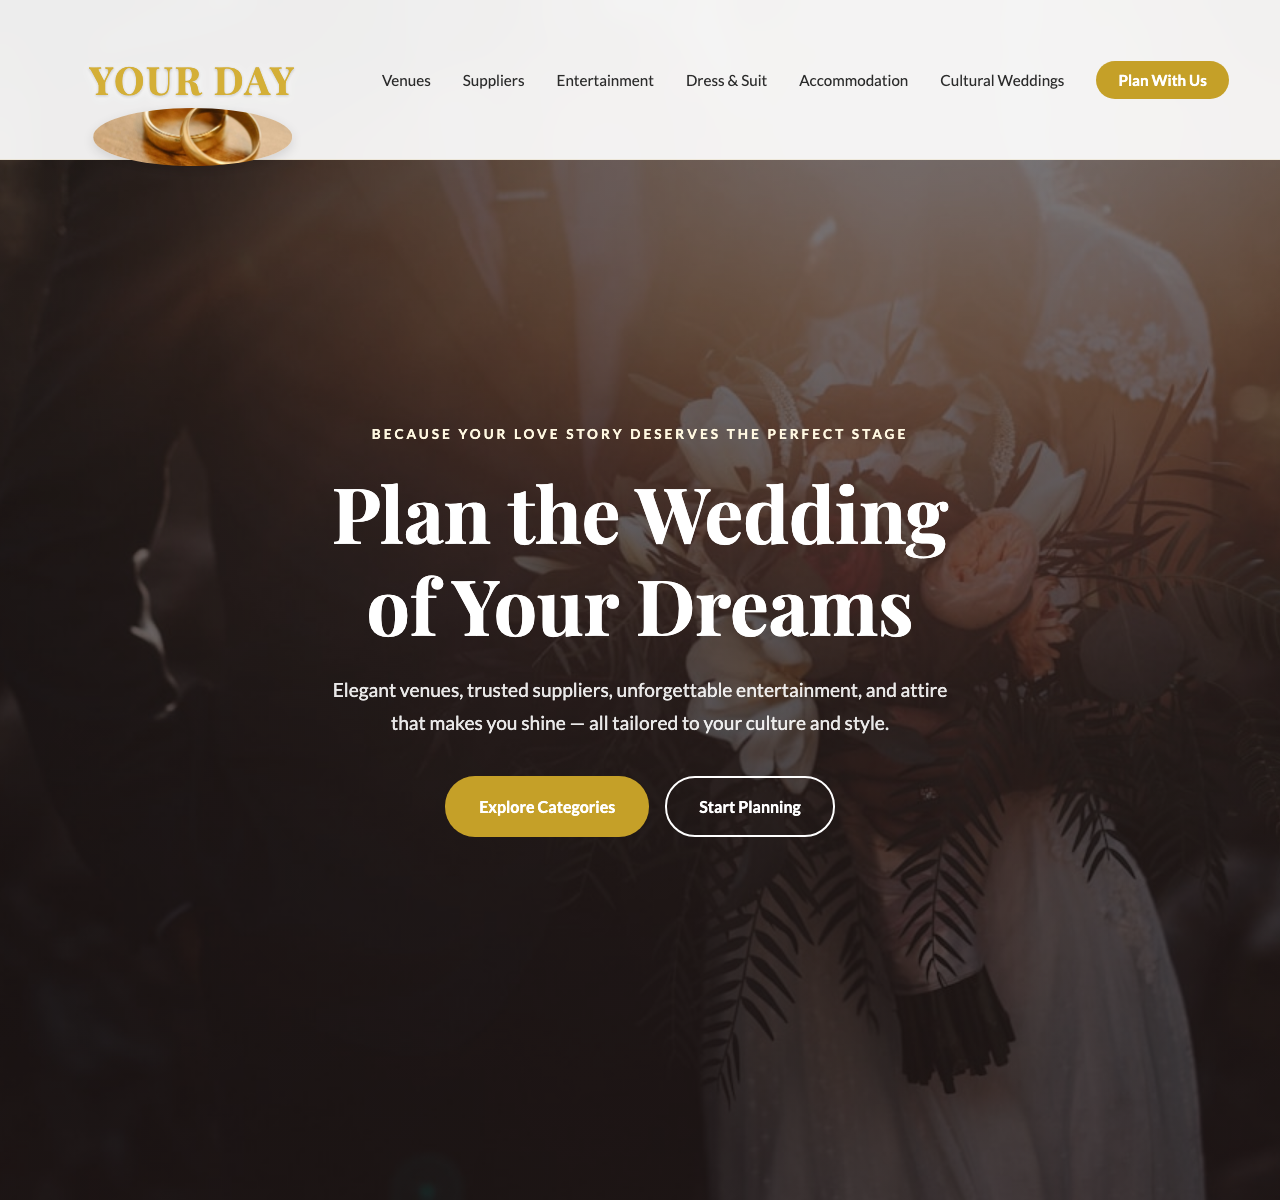
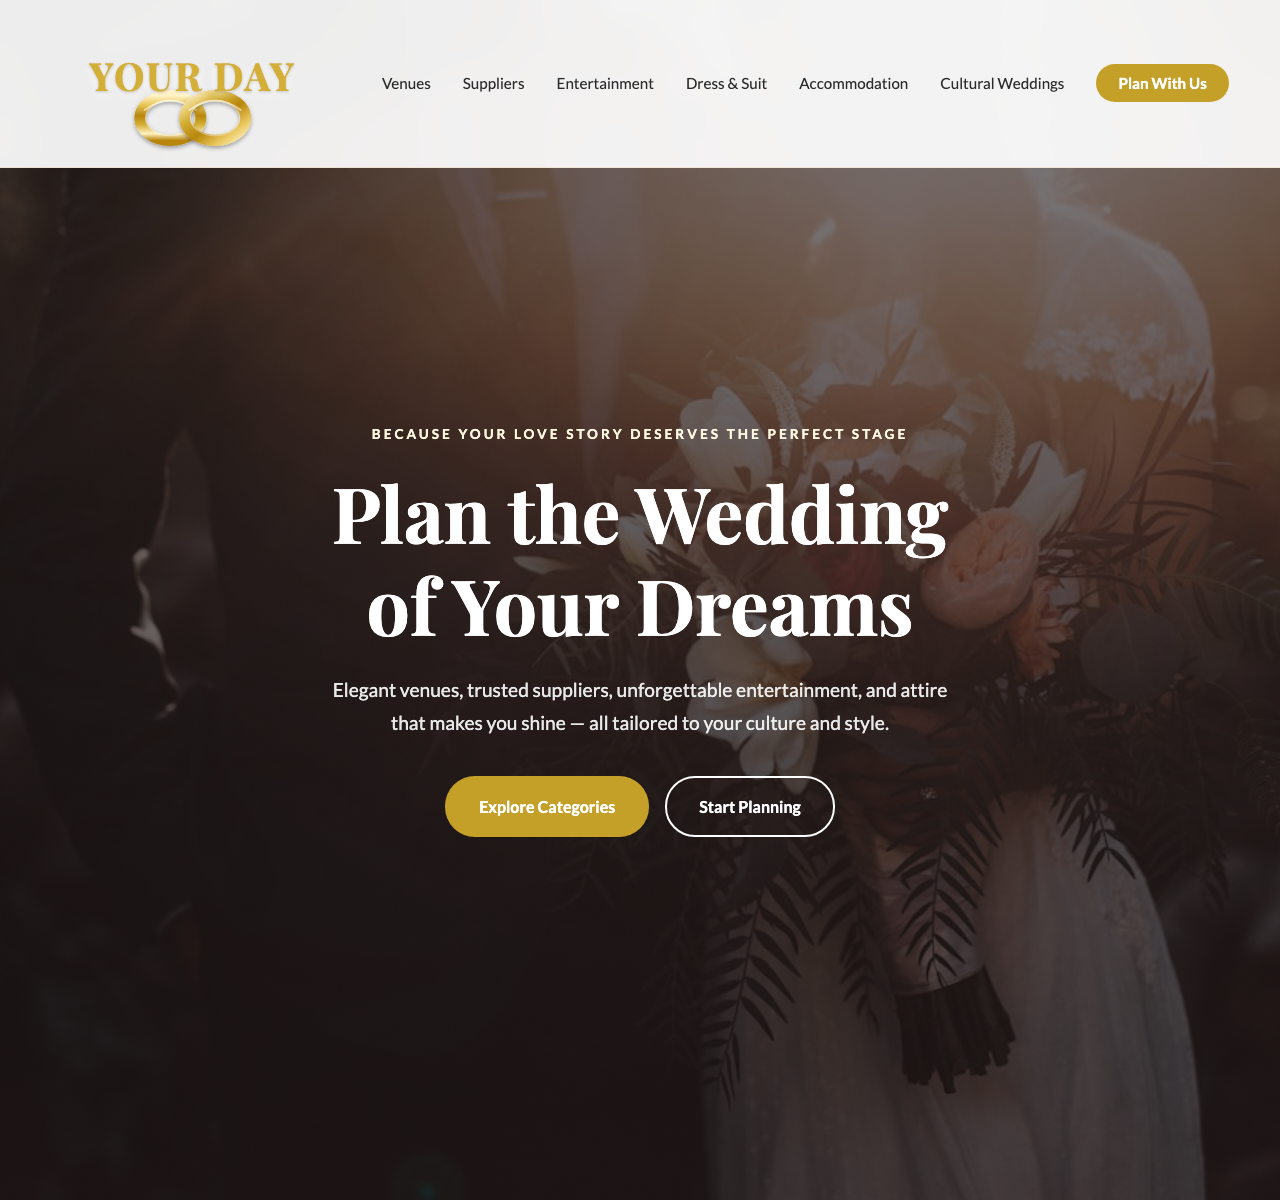
Clean SVG wedding rings closer to golden YOUR DAY

diff --git a/styles.css b/styles.css
@@ -115,26 +115,24 @@ img {
   display: inline-flex;
   align-items: center;
   justify-content: center;
-  padding: 0.6em 1em;
+  padding: 0.6em 1em 1em 1em;
   min-width: 7em;
-  min-height: 3.2em;
+  min-height: 3.4em;
   transition: var(--transition);
   text-shadow: 0 2px 10px rgba(255, 255, 255, 0.8), 0 1px 3px rgba(0, 0, 0, 0.25);
 }
 
 .logo-rings {
   position: absolute;
-  bottom: -0.65em;
+  bottom: -0.15em;
   left: 50%;
   transform: translateX(-50%);
-  width: 5.2em;
-  height: 1.5em;
-  background-image: url('images/logo-rings.jpg');
-  background-size: cover;
+  width: 4.6em;
+  height: 1.9em;
+  background-image: url('images/rings.svg');
+  background-size: contain;
   background-position: center;
   background-repeat: no-repeat;
-  border-radius: 50%;
-  box-shadow: 0 4px 12px rgba(0, 0, 0, 0.12);
   z-index: 0;
   pointer-events: none;
 }

diff --git a/index.html b/index.html
@@ -7,7 +7,7 @@
   <link rel="preconnect" href="https://fonts.googleapis.com">
   <link rel="preconnect" href="https://fonts.gstatic.com" crossorigin>
   <link href="https://fonts.googleapis.com/css2?family=Playfair+Display:ital,wght@0,400;0,600;0,700;1,400&family=Lato:wght@300;400;700&display=swap" rel="stylesheet">
-  <link rel="stylesheet" href="styles.css?v=5">
+  <link rel="stylesheet" href="styles.css?v=6">
 </head>
 <body>
   <nav class="navbar">
